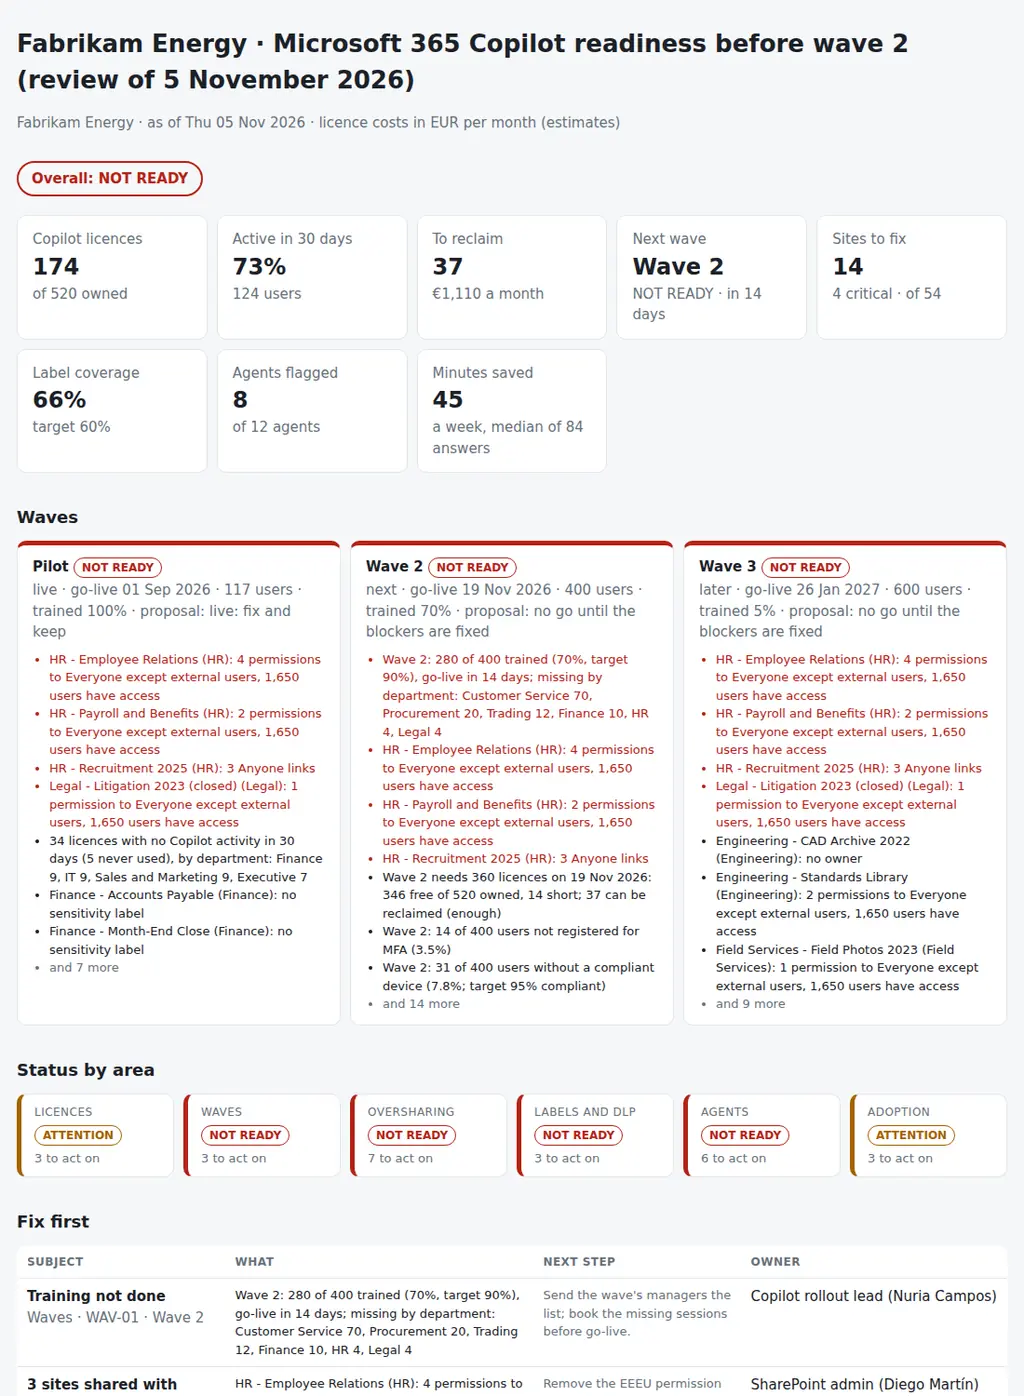
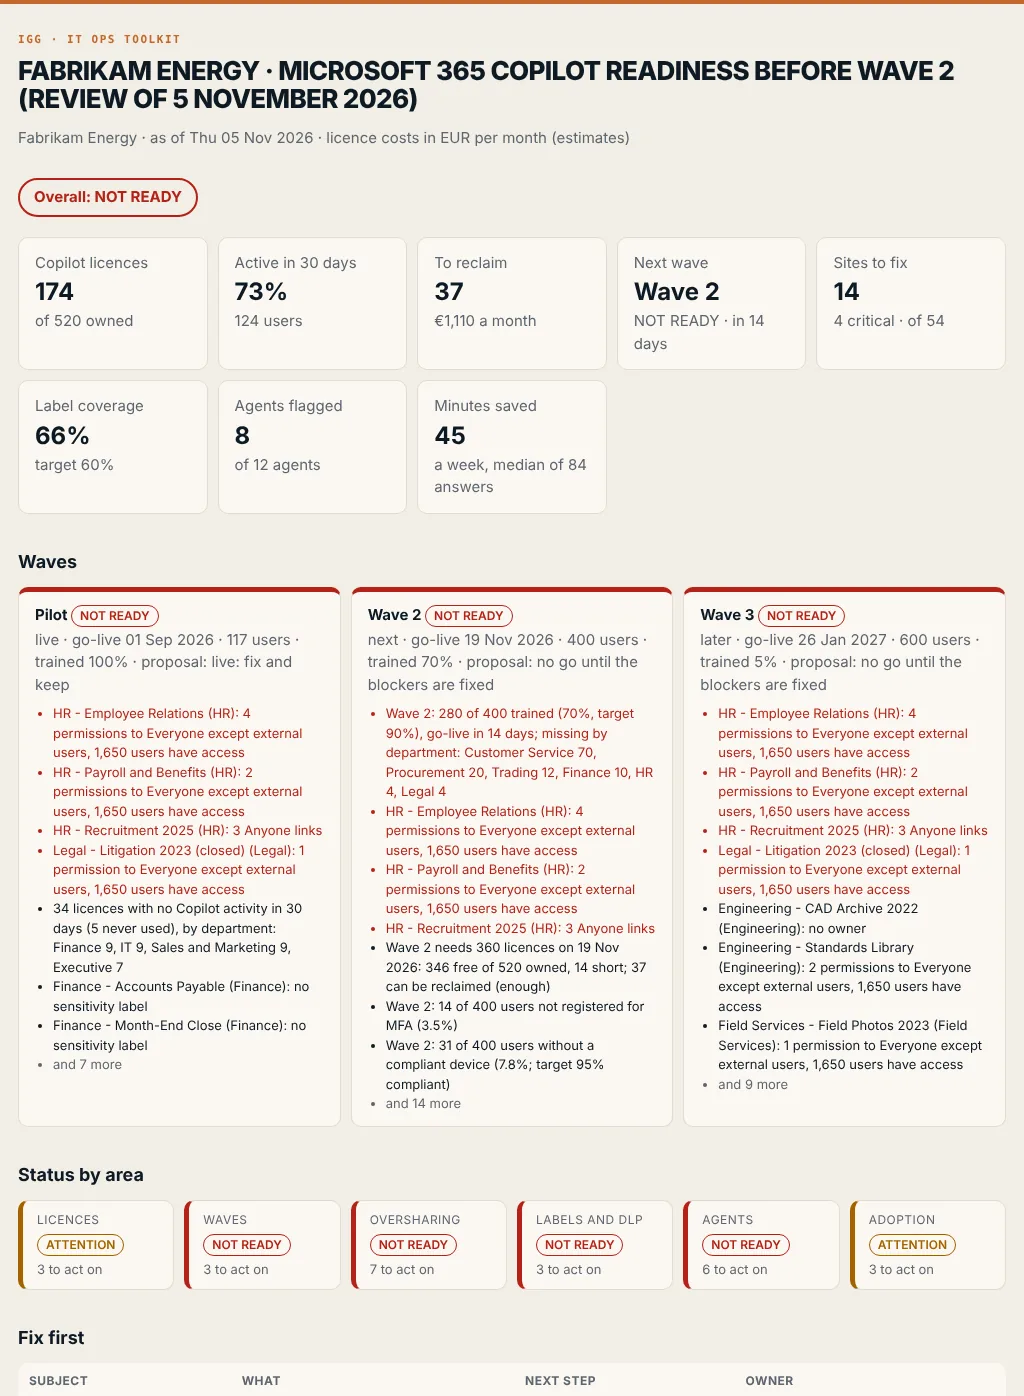
Report: IGG colours (paper, ink and the orange accent) and a new screenshot

diff --git a/copilotready/report.py b/copilotready/report.py
@@ -273,9 +273,9 @@ def pack_md(d: Data, rv: dict, findings: list[Finding], title: str) -> str:
 # ---------------------------------------------------------------- html
 
 CSS = """
-:root{--bg:#f6f7f8;--card:#fff;--ink:#1b2128;--muted:#66717c;--line:#e2e5e9;--ok:#1e7a4c;--warn:#a46200;--bad:#b42318;--info:#0b6bcb;--bar:#3d6fb6;--bar2:#c9d6ea}
-@media (prefers-color-scheme:dark){:root{--bg:#13171b;--card:#1b2127;--ink:#e7eaee;--muted:#9aa5b0;--line:#2b333b;--ok:#4cc38a;--warn:#f0a83a;--bad:#f2685c;--info:#5aa9f0;--bar:#6f9be0;--bar2:#2e3d55}}
-*{box-sizing:border-box}body{margin:0;background:var(--bg);color:var(--ink);font:15px/1.5 system-ui,-apple-system,Segoe UI,sans-serif}
+:root{--bg:#f2eee6;--card:#fbf8f3;--ink:#0e1a24;--muted:#5d6670;--line:#e2dccf;--ok:#1e7a4c;--warn:#a46200;--bad:#b42318;--info:#1f5f8b;--bar:#3d6fb6;--bar2:#c9d6ea}
+@media (prefers-color-scheme:dark){:root{--bg:#0e1a24;--card:#142331;--ink:#f2eee6;--muted:#a9b3bb;--line:#24364a;--ok:#4cc38a;--warn:#f0a83a;--bad:#f2685c;--info:#5aa9f0;--bar:#6f9be0;--bar2:#2e3d55}}
+*{box-sizing:border-box}body{border-top:4px solid #c4672b}h1{font-weight:800;letter-spacing:-.025em;text-transform:uppercase;line-height:1.05}h1::before{content:"IGG · IT Ops toolkit";display:block;font:600 11px/1.4 ui-monospace,SFMono-Regular,Menlo,monospace;letter-spacing:.14em;text-transform:uppercase;color:#c4672b;margin-bottom:10px}body{margin:0;background:var(--bg);color:var(--ink);font:15px/1.5 system-ui,-apple-system,Segoe UI,sans-serif}
 main{max-width:1100px;margin:0 auto;padding:28px 18px 60px}h1{font-size:26px;margin:0 0 4px}h2{font-size:18px;margin:34px 0 12px}h3{font-size:15px;margin:18px 0 8px}
 .muted{color:var(--muted)}.tiles{display:grid;grid-template-columns:repeat(auto-fit,minmax(170px,1fr));gap:10px;margin-top:20px}
 .tile{background:var(--card);border:1px solid var(--line);border-radius:10px;padding:14px 16px}.tile b{display:block;font-size:24px}
